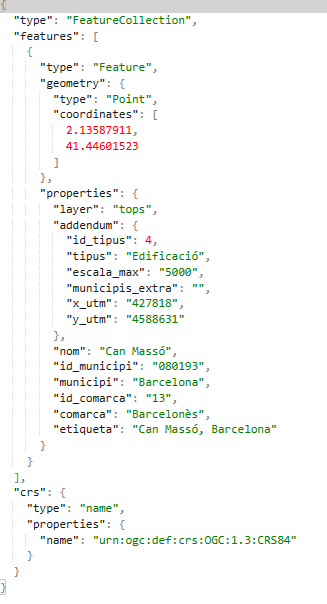
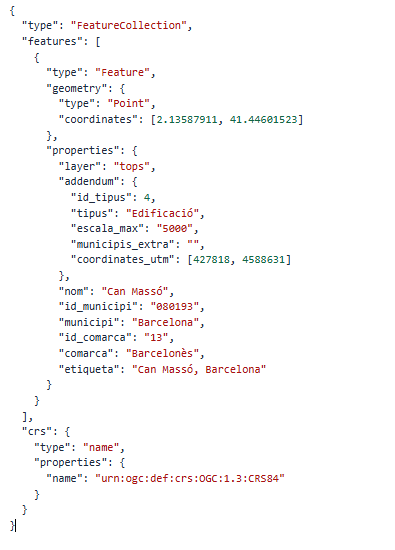
Deployed 544735e with MkDocs version: 1.5.3

diff --git a/parametres_autocompletar/index.html b/parametres_autocompletar/index.html
@@ -1527,13 +1527,8 @@
 <td>Addresses</td>
 </tr>
 <tr>
-<td><strong>addendum.x_utm</strong></td>
-<td>X UTM Coordinate</td>
-<td>All</td>
-</tr>
-<tr>
-<td><strong>addendum.y_utm</strong></td>
-<td>Y UTM Coordinate</td>
+<td><strong>addendum.coordinates_utm</strong></td>
+<td>UTM coordinates</td>
 <td>All</td>
 </tr>
 <tr>
@@ -1572,10 +1567,10 @@
 </thead>
 <tbody>
 <tr>
-<td><a href="https://eines.icgc.cat/geocodificador/autocompletar?text=serra%20de%20pava&amp;layers=tops&amp;size=1" target="_blank">https://eines.icgc.cat/geocodificador/autocompletar?text=serra%20de%20pava&amp;layers=tops&amp;size=1</a></td>
+<td><a href="https://eines.icgc.cat/geocodificador/autocompletar?text=el%20tibidabo%20,Barcelona&amp;layers=tops&amp;size=1" target="_blank">https://eines.icgc.cat/geocodificador/autocompletar?text=el%20tibidabo%20,Barcelona&amp;layers=tops&amp;size=1</a></td>
 </tr>
 <tr>
-<td><img alt="" src="../img/autocompletar-tops.png" /></td>
+<td><img alt="" src="../img/cerca-top.png" /></td>
 </tr>
 </tbody>
 </table>

diff --git a/parametres_cerca/index.html b/parametres_cerca/index.html
@@ -1520,13 +1520,8 @@
 <td>Addresses</td>
 </tr>
 <tr>
-<td><strong>addendum.x_utm</strong></td>
-<td>X UTM Coordinate</td>
-<td>All</td>
-</tr>
-<tr>
-<td><strong>addendum.y_utm</strong></td>
-<td>Y UTM Coordinate</td>
+<td><strong>addendum.coordinates_utm</strong></td>
+<td>UTM coordinates</td>
 <td>All</td>
 </tr>
 <tr>
@@ -1550,7 +1545,7 @@
 </thead>
 <tbody>
 <tr>
-<td><a href="https://eines.icgc.cat/geocodificador/cerca?text=nou%2010%20girona&amp;layers=address&amp;size=1" target="_blank">https://eines.icgc.cat/geocodificador/cerca?text=nou%2010%20girona&amp;layers=address&amp;size=1</a></td>
+<td><a href="https://eines.icgc.cat/geocodificador/cerca?text=nou%2010%20,girona&amp;layers=address&amp;size=1" target="_blank">https://eines.icgc.cat/geocodificador/cerca?text=nou%2010%20,girona&amp;layers=address&amp;size=1</a></td>
 </tr>
 <tr>
 <td><img alt="" src="../img/cerca-adreces.png" /></td>

diff --git a/parametres_invers/index.html b/parametres_invers/index.html
@@ -1426,13 +1426,8 @@
 <td>Addresses</td>
 </tr>
 <tr>
-<td><strong>addendum.x_utm</strong></td>
-<td>X UTM Coordinate</td>
-<td>All</td>
-</tr>
-<tr>
-<td><strong>addendum.y_utm</strong></td>
-<td>Y UTM Coordinate</td>
+<td><strong>addendum.coordinates_utm</strong></td>
+<td>UTM coordinates</td>
 <td>All</td>
 </tr>
 <tr>
